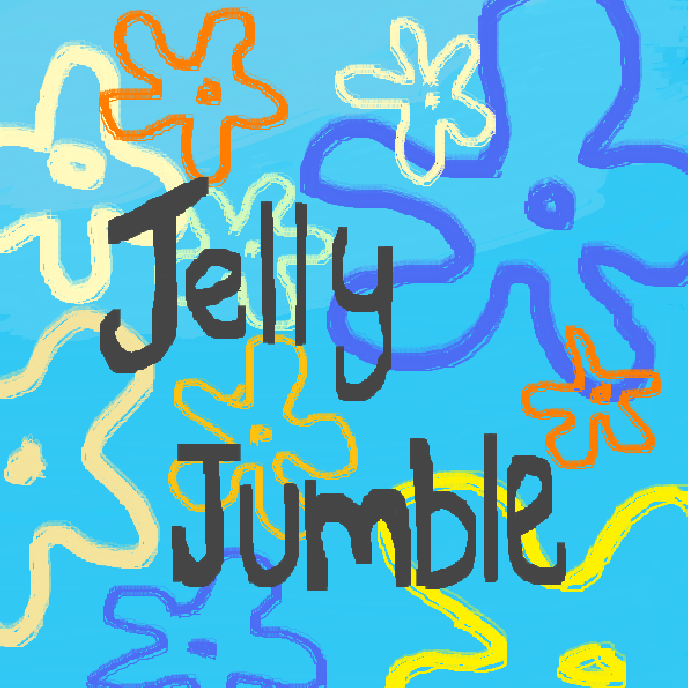
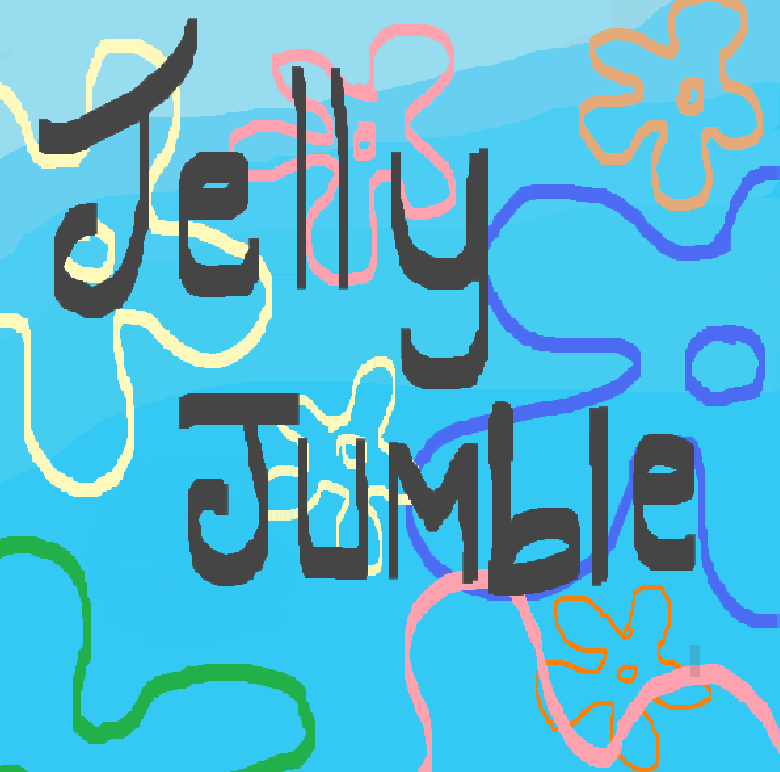
atualização dos jogadores e levels

diff --git a/SISTEMA PONTUAÇÃO MAXIMA.py b/SISTEMA PONTUAÇÃO MAXIMA.py
@@ -3,6 +3,7 @@ import random
 import time
 import json
 
+
 pygame.mixer.init()
 pygame.init()
 
@@ -14,6 +15,7 @@ window = pygame.display.set_mode((WIDTH, HEIGHT))
 BRANCO = (255, 255, 255)
 PRETO = (0, 0, 0)
 VERMELHO = (255,0,0)
+CINZA = (117, 120, 123)
 
 # Carregar o dicionário de jogadores existente do arquivo JSON, se houver
 try:
@@ -30,18 +32,15 @@ altura_agua_viva = 60
 largura_player = 80
 altura_player = 80
 larg_tub = 130
+level = 0
 alt_tub = 90
-font = pygame.font.SysFont('imagens/Fontes/retro_mario/RetroMario-Regular.otf', 48)
-font_small = pygame.font.SysFont('imagens/Fontes/retro_mario/RetroMario-Regular.otf', 24)
+
+fonte = pygame.font.SysFont('imagens/Fontes/fonte.ttf', 50)
+fonte_small = pygame.font.SysFont('imagens/Fontes/fonte.ttf', 40)
+
 background = pygame.image.load('imagens/Image nova.jpg').convert()
 background = pygame.transform.scale(background,(WIDTH,HEIGHT))
 
-background_bob = pygame.image.load('imagens/ganhador1.jpeg').convert()
-background_bob = pygame.transform.scale(background_bob,(WIDTH,HEIGHT))
-background_patrick = pygame.image.load('imagens/ganhador2.jpeg').convert()
-background_patrick = pygame.transform.scale(background_patrick,(WIDTH,HEIGHT))
-background_holandes = pygame.image.load('imagens/holandes_ganhador.jpeg').convert()
-background_holandes = pygame.transform.scale(background_holandes,(WIDTH,HEIGHT))
 
 agua_viva = pygame.image.load('imagens/AGUAVIVA.png').convert_alpha()
 agua_viva_small = pygame.transform.scale(agua_viva, (largura_agua_viva, altura_agua_viva))
@@ -54,6 +53,12 @@ player_image1 = pygame.transform.scale(player_image1, (largura_player, altura_pl
 
 player_image2 = pygame.image.load('imagens/patrick_com_rede.png').convert_alpha()
 player_image2 = pygame.transform.scale(player_image2, (largura_player, altura_player))
+
+background_pontuacao = pygame.image.load('imagens/1_tela_pontuacao.png').convert_alpha()
+background_pontuacao = pygame.transform.scale(background_pontuacao, (WIDTH, HEIGHT))
+
+image = pygame.image.load('imagens/tela_entrada.png').convert()
+tela_entrada = pygame.transform.scale(image,(WIDTH,HEIGHT))
 
 # Carrega os sons do jogo
 pygame.mixer.music.set_volume(0.4)
@@ -161,8 +166,13 @@ class HOLANDES(pygame.sprite.Sprite):
         if self.rect.top < 0 or self.rect.bottom > HEIGHT or self.rect.left > WIDTH:
             self.rect.x = -100
             self.rect.bottom = random.randint(0, HEIGHT-100)
-            self.speedx = random.randint(2, 6)
             self.speedy = 0
+            if level == 0:
+                self.speedx = random.randint(2, 3)
+            elif level == 1:
+                self.speedx = random.randint(5, 6)
+            else:
+                self.speedx = random.randint(6, 8)
 
 # ----- Criação de objetos
 player1 = Player(player_image1, {'up': pygame.K_w, 'down': pygame.K_s, 'left': pygame.K_a, 'right': pygame.K_d})
@@ -191,14 +201,10 @@ for i in range(2):
 
 clock = pygame.time.Clock()
 FPS = 60
-
+i=0
 # Configurações da janela em Pygame
 janela = pygame.display.set_mode((WIDTH, HEIGHT))
 pygame.display.set_caption("Botão de Reprodução")
-
-#tela de entrada
-image = pygame.image.load('imagens/entrada.jpeg').convert()
-image = pygame.transform.scale(image,(WIDTH,HEIGHT))
 
 # Variável para verificar se o botão está pressionado em Pygame
 botao_clicado = False
@@ -247,13 +253,14 @@ while executando:
     janela.blit(image, (0, 1))
 
     if nomes_colocados == 0:
-        text = font.render("Nome do jogador 1: " + player_name, True, BRANCO)
+        text = fonte.render("Nome do jogador 1: " + player_name, True, BRANCO)
 
     elif nomes_colocados == 1:
-        text = font.render("Nome do jogador 2: " + player_name, True, BRANCO)
+        text = fonte.render("Nome do jogador 2: " + player_name, True, BRANCO)
 
     text_rect = text.get_rect(center=(300, 550))
     window.blit(text, text_rect)
+
     if not botao_clicado:
         pygame.display.update()
     else:
@@ -280,6 +287,10 @@ while executando:
                 time_started = True
                 start_time = time.time()
             
+            if current_time >= 35 and current_time<=50:
+                level = 1
+            elif current_time >= 50:
+                level = 2
             # ----- Trata eventos
             for event in pygame.event.get():
                 # ----- Verifica consequências
@@ -331,21 +342,26 @@ while executando:
             all_sprites.draw(window)
 
             # Exibe a pontuação na tela
-            score1_text = font.render(f"{nome_jogador1}: " + str(score1), True, (BRANCO))
+            score1_text = fonte.render(f"{nome_jogador1}: " + str(score1), True, (BRANCO))
             window.blit(score1_text, (10, 10))
-            score2_text = font.render(f"{nome_jogador2}: " + str(score2), True, (BRANCO))
+            score2_text = fonte.render(f"{nome_jogador2}: " + str(score2), True, (BRANCO))
             window.blit(score2_text, (10, 50))
 
 
             if time_started:
 
                 tempo_restante = 60-current_time
-                tempo_text = font.render("Tempo restante: {0:.0f}".format((tempo_restante)), True, (255,255,255))
+                tempo_text = fonte.render("Tempo restante: {0:.0f}".format((tempo_restante)), True, (255,255,255))
                 window.blit(tempo_text, (270, 10)) 
 
                 if current_time >= 60:
                     game = False
                     executando = False 
+
+                elif current_time >= 20 and i ==1:
+                    tubarao = HOLANDES(tubarao_grande)
+                    all_tubaroes.add(tubarao)
+                    i+=1
 
             pygame.display.update()
 
@@ -370,35 +386,44 @@ with open('players.json', 'w') as file:
 
 pygame.mixer.stop()
 
-highscore_text = font.render("Pontuação máxima:", True, (PRETO))
-bestplayer_text = font.render(f"{best_player} --> {high_score}", True, (PRETO))
+highscore_text = fonte.render("Pontuação máxima:", True, (PRETO))
+bestplayer_text = fonte.render(f"{best_player} --> {high_score}", True, (PRETO))
 tela_final = True
+
 while tela_final:
     for evento in pygame.event.get():
         if evento.type == pygame.QUIT:
             tela_final = False
+
+        
     if score1>score2:
         window.fill((0, 0, 0))  # Preenche com a cor preta
-        bob_text = font.render(f"{nome_jogador1} venceu! ", True, (PRETO))
-        window.blit(background_bob, (0, 0)) 
+        bob_text = fonte.render(f"{nome_jogador1} venceu! ", True, (PRETO))
+        window.blit(background_pontuacao, (0,0)) 
         window.blit(bob_text, (10, 10))
-        window.blit(highscore_text, (10, 450))
-        window.blit(bestplayer_text, (10, 500))                
+        highscore_text = fonte.render("Melhor jogador:", True, (BRANCO))
+        bestplayer_text = fonte_small.render(f"{best_player}: {high_score}", True, (BRANCO))
+        window.blit(highscore_text, (100, 500))
+        window.blit(bestplayer_text, (100, 550))
+                        
     elif score2>score1:
         window.fill((0, 0, 0))  # Preenche com a cor preta
-        pat_text = font.render(f"{nome_jogador2} venceu! ", True, (PRETO))
-        window.blit(background_patrick, (0, 0))
-        window.blit(pat_text, (10, 10))
-        window.blit(highscore_text, (270, 10))
-        window.blit(bestplayer_text, (270, 60)) 
+        pat_text = fonte.render(f"{nome_jogador2} venceu! ", True, (PRETO))
+        window.blit(background_pontuacao, (0,0))
+        window.blit(pat_text, (100, 200))
+        highscore_text = fonte.render("Melhor jogador:", True, (BRANCO))
+        bestplayer_text = fonte_small.render(f"{best_player}: {high_score}", True, (BRANCO))
+        window.blit(highscore_text, (100, 500))
+        window.blit(bestplayer_text, (100, 550))
+     
     else:
         window.fill((0, 0, 0))  # Preenche com a cor preta
-        highscore_text = font.render("Pontuação máxima:", True, (BRANCO))
-        bestplayer_text = font.render(f"{best_player} --> {high_score}", True, (BRANCO))
-        holandes_text = font.render("O holandes voador venceu =( ", True, (BRANCO))
-        window.blit(background_holandes, (0, 0))
-        window.blit(holandes_text, (10, 10))
+        holandes_text = fonte.render("O holandês voador venceu", True, (PRETO))
+        window.blit(background_pontuacao, (0,0))
+        window.blit(holandes_text, (100, 200))
+        highscore_text = fonte.render("Melhor jogador:", True, (BRANCO))
+        bestplayer_text = fonte_small.render(f"{best_player}: {high_score}", True, (BRANCO))
         window.blit(highscore_text, (100, 500))
-        window.blit(bestplayer_text, (100, 550))   
+        window.blit(bestplayer_text, (100, 550))
 
     pygame.display.update()

diff --git a/README.md b/README.md
@@ -1,1 +1,16 @@
 # ana_lucca_marcos
+Imagem ganhador 1: https://www.bing.com/images/search?view=detailV2&ccid=tW2E%2bCs7&id=A5EF97573E75B4521128D344D2310C9FE50415A5&thid=OIP.tW2E-Cs7ND18nCcFmdBSYgHaFj&mediaurl=https%3a%2f%2fstudiosol-a.akamaihd.net%2fuploadfile%2fletras%2ffotos%2fa%2f4%2f5%2f7%2fa4570f70cc85cb9d4f38878a49df2707.jpg&cdnurl=https%3a%2f%2fth.bing.com%2fth%2fid%2fR.b56d84f82b3b343d7c9c270599d05262%3frik%3dpRUE5Z8MMdJE0w%26pid%3dImgRaw%26r%3d0&exph=530&expw=706&q=imagens++bob+esponja&simid=608013180284923657&FORM=IRPRST&ck=468C2DC2DCF3D88C8D23B3EBF33C4B6B&selectedIndex=84&ajaxhist=0&ajaxserp=0 
+
+imagem jogador 1: https://www.bing.com/images/search?view=detailV2&ccid=YfQ5keSP&id=E1438E0B8D0FB677423C7B2D1B73D1B49FAE1BD3&thid=OIP.YfQ5keSPQ-WFWPM4JddWPwHaFj&mediaurl=https%3a%2f%2fth.bing.com%2fth%2fid%2fR.61f43991e48f43e58558f33825d7563f%3frik%3d0xuun7TRcxstew%26riu%3dhttp%253a%252f%252f3.bp.blogspot.com%252f-XPgTnWmExyc%252fU3moK4-0EaI%252fAAAAAAAAfls%252fwH-OtwA4hus%252fs1600%252f09.png%26ehk%3dTWs%252b7iSOpycnsORmbuJg2qNyVc8Gg08oBsQhosTnPw0%253d%26risl%3d%26pid%3dImgRaw%26r%3d0&exph=1200&expw=1600&q=imagens++bob+esponja&simid=608044481994775405&FORM=IRPRST&ck=C653BF87F8FFDF4D1EE84EC83BC42554&selectedIndex=94&ajaxhist=0&ajaxserp=0 
+
+imagem jogador 2: https://www.bing.com/images/search?view=detailV2&ccid=J22p9jwn&id=9CE505329F05D1F3900D68B2BE539371F69DBF9E&thid=OIP.J22p9jwnPieqNO05ms7QHAAAAA&mediaurl=https%3a%2f%2fth.bing.com%2fth%2fid%2fR.276da9f63c273e27aa34ed399aced01c%3frik%3dnr%252bd9nGTU76yaA%26riu%3dhttp%253a%252f%252fi11.photobucket.com%252falbums%252fa168%252fevelynregly%252fposts%252fpatrick2.gif%26ehk%3dQ%252bk2H1HhsOn0oTQZFO4iwC9rU%252b6ITcytZT2rhLe%252bcW4%253d%26risl%3d%26pid%3dImgRaw%26r%3d0&exph=500&expw=465&q=imagens+bob+esponja+patrick&simid=608003735653592557&FORM=IRPRST&ck=DA02999B3DD9B56DACC3763AD6E19005&selectedIndex=105&ajaxhist=0&ajaxserp=0 
+
+
+água viva: https://www.bing.com/images/search?view=detailV2&ccid=FkXoDizR&id=486D19E8D27569F987EB6B2DC98B9484F50C8E68&thid=OIP.FkXoDizREXOV8aSH4Ia6NQHaJG&mediaurl=https%3a%2f%2fth.bing.com%2fth%2fid%2fR.1645e80e2cd1117395f1a487e086ba35%3frik%3daI4M9YSUi8ktaw%26riu%3dhttp%253a%252f%252fimagenspng.com%252fwp-content%252fuploads%252fwpdm-cache%252fagua-viva-bob-esponja-png-Imagem-png-download-900x0.png%26ehk%3dhzJzfmkQxjZUUtHqcfYF%252fU4IwhDu7H4tsKF0fdxvpE4%253d%26risl%3d%26pid%3dImgRaw%26r%3d0&exph=1106&expw=900&q=imagens+bob+esponja+agua+viva&simid=608047089060968666&FORM=IRPRST&ck=B37993DDEED0E2189E2C3EBE74A33E02&selectedIndex=3&ajaxhist=0&ajaxserp=0 
+
+imagem holandes voador: https://www.bing.com/images/search?view=detailV2&ccid=L2aI0RXE&id=A0FB53E810FB89C24B4BFEF8D02C4C2C7EBB8841&thid=OIP.L2aI0RXEnJgsYnvIMbF4QwHaFc&mediaurl=https%3a%2f%2fwww.pngfind.com%2fpngs%2fm%2f168-1680554_evil-flying-dutchman-rhw204-spongebob-squarepants-flying-dutchman.png&cdnurl=https%3a%2f%2fth.bing.com%2fth%2fid%2fR.2f6688d115c49c982c627bc831b17843%3frik%3dQYi7fixMLND4%252fg%26pid%3dImgRaw%26r%3d0&exph=617&expw=840&q=imagens+bob+esponja+holandes+voados&simid=608005805831713799&FORM=IRPRST&ck=F920294692BD7C0A0BF7158AD827FA85&selectedIndex=8&ajaxhist=0&ajaxserp=0 
+
+ganhador holandes: https://www.bing.com/images/search?view=detailV2&ccid=Tui%2bnsB%2b&id=ACF71D58E8E50E47642ED3783E6410B3240DD8B5&thid=OIP.Tui-nsB-Pjz33hYPUvb75QAAAA&mediaurl=https%3a%2f%2fth.bing.com%2fth%2fid%2fR.4ee8be9ec07e3e3cf7de160f52f6fbe5%3frik%3dtdgNJLMQZD540w%26riu%3dhttp%253a%252f%252fpm1.narvii.com%252f6385%252f7556a5ad3a24ccd02eaa4d014e1b182bfe6191b1_00.jpg%26ehk%3dIcGH2rVmw8MdyKWOJM7G57rHlYUy4nyG3lZk2ojtbOU%253d%26risl%3d%26pid%3dImgRaw%26r%3d0&exph=332&expw=443&q=imagens+bob+esponja+holandes+voados&simid=608037494097717623&FORM=IRPRST&ck=1DEED6DEA6B77898A1460281CDD8E51C&selectedIndex=4&ajaxhist=0&ajaxserp=0 
+
+Fontes: https://www.dafont.com/pt/spongeboy-me-bob.font 
+
